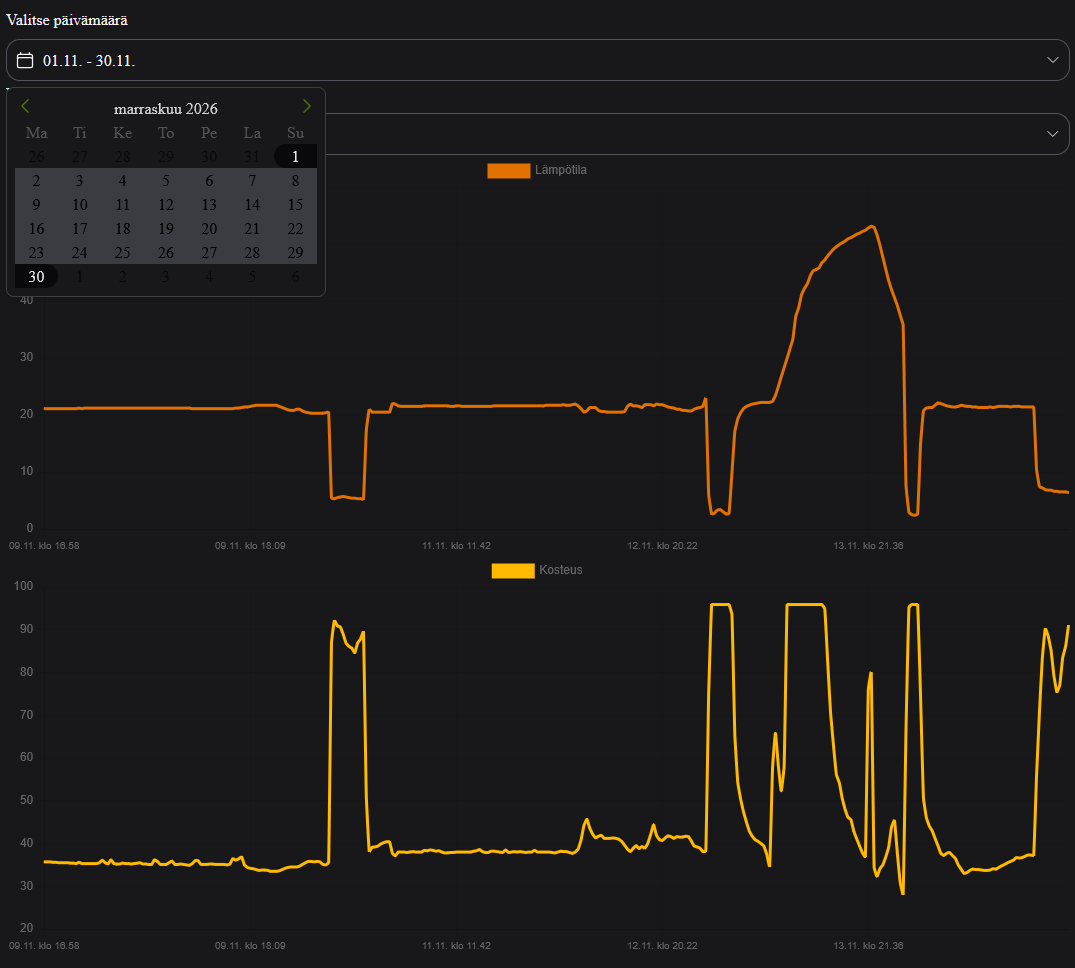
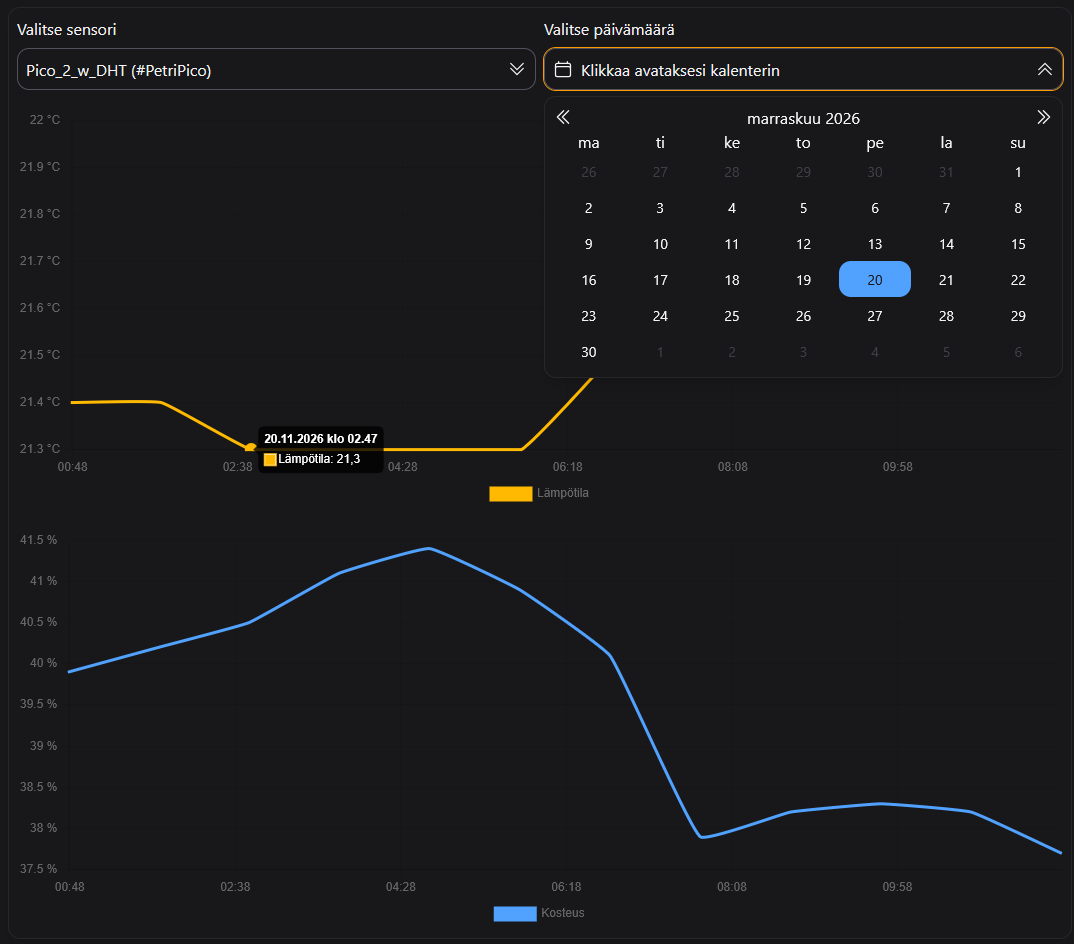
noa/pico/.vscode pois

diff --git a/README.md b/README.md
@@ -6,4 +6,4 @@
 #### Ryhmäläisten toteuttamat koodit löytyvät omista kansiostaan (etunimi)
 
 Käyttöliittymä saatavilla https://at00by06-frontend.vercel.app/
-![kuva käyttöliittymästä](image-1.png)
+![kuva käyttöliittymästä](image.png)
